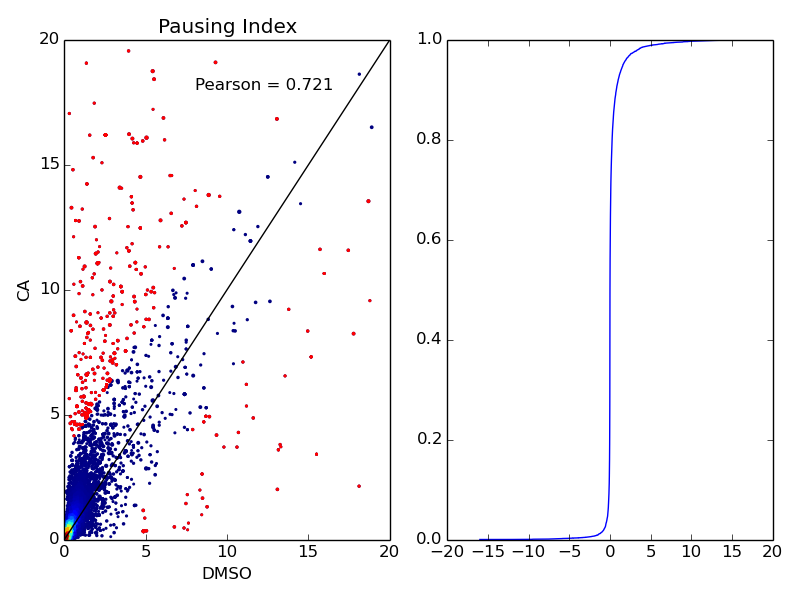
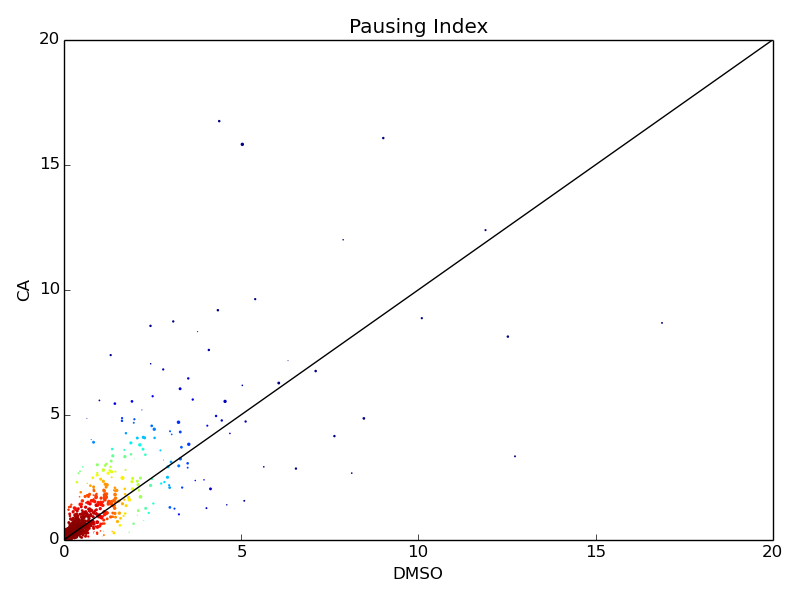
updates

diff --git a/src/closest_gene.py b/src/closest_gene.py
@@ -99,7 +99,7 @@ def run(chipdir,refseq,filedir,DMSO,CA):
 	ax1 = F6.add_subplot(111)
 	xy = np.vstack([TRx,TRy])
 	z = gaussian_kde(xy)(xy)
-	ax1.scatter(TRx,TRy,c=z,edgecolor="",s=expressionlist)
+	ax1.scatter(TRx,TRy,c=z,edgecolor="")
 	# ax1.scatter(TRx2,TRy2,c='red',edgecolor="",s=expressionlist2)
 	ax1.set_title('Pausing Index')
 	ax1.set_ylabel('CA')
